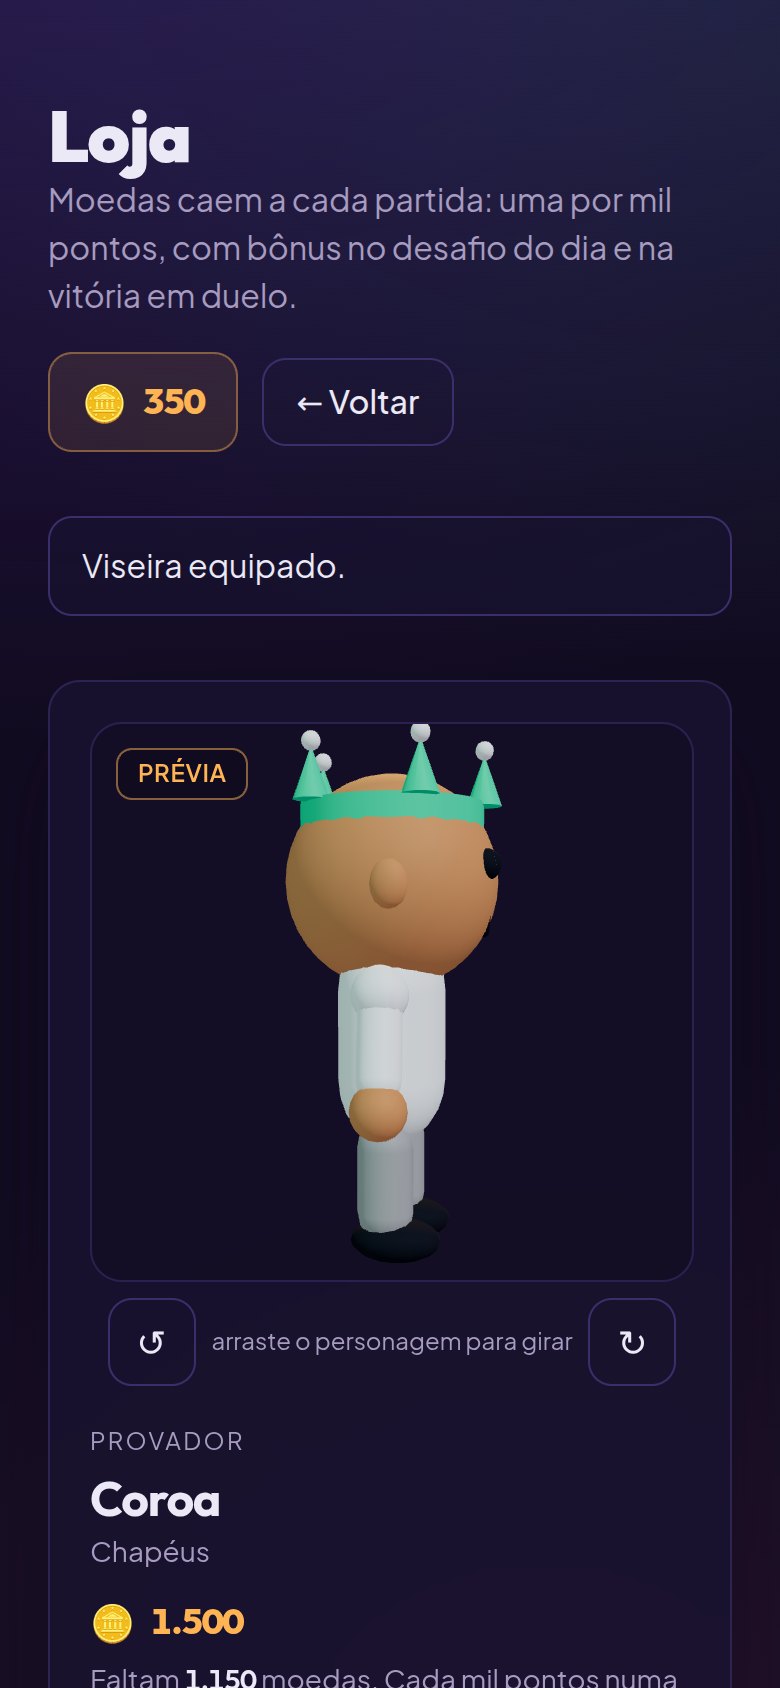
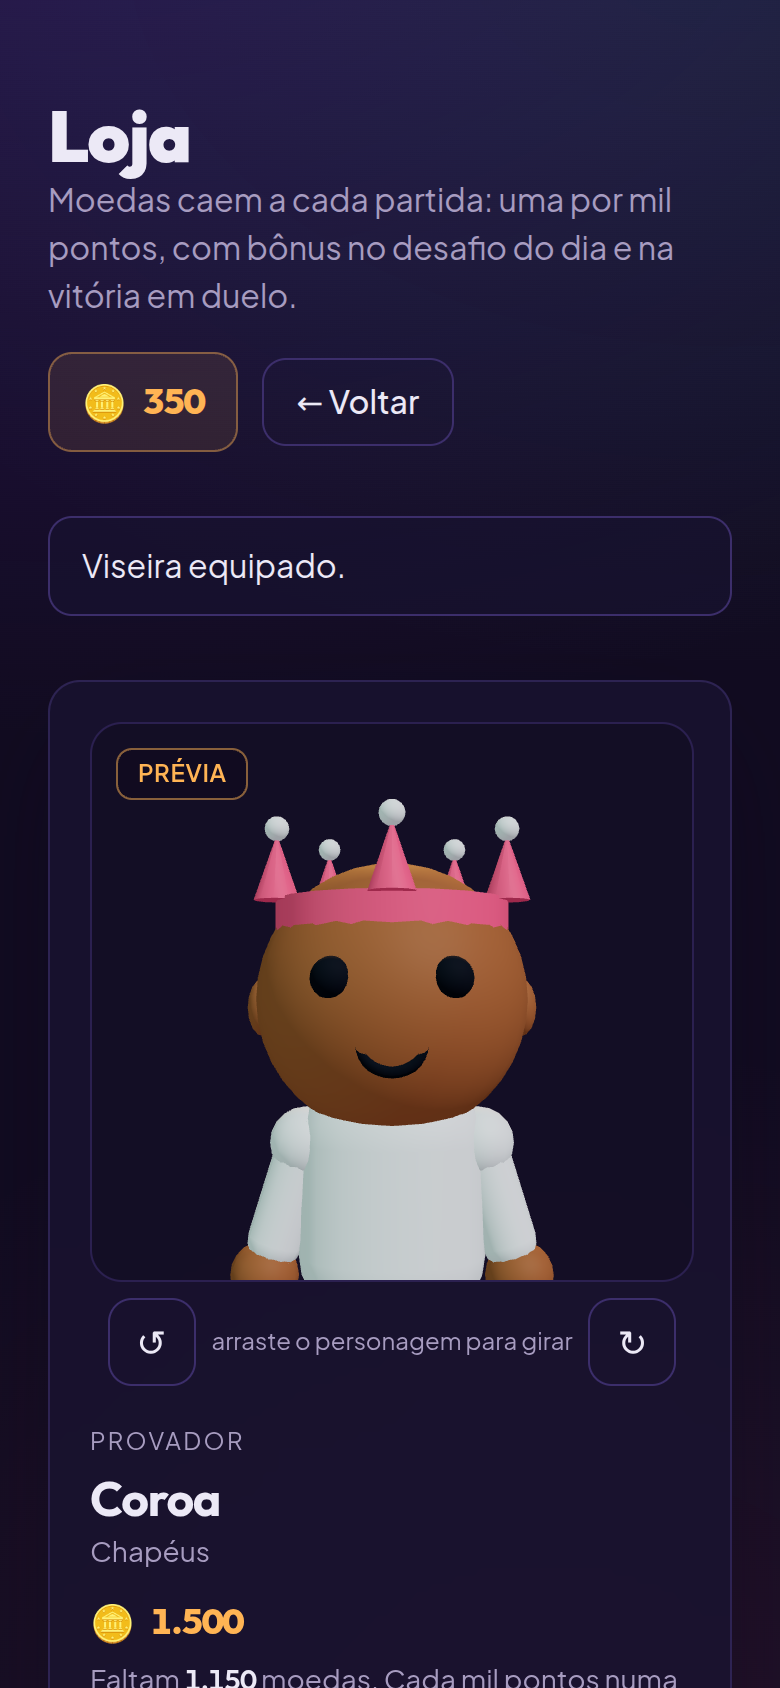
Enquadra o provador pelo item que esta sendo provado
Fecha #11.

A camera do provador ficava distante e um pouco de cima: o rosto lia pequeno
numa vitrine onde sete dos itens vendidos sao rostos, e chapeu alto encostava
no topo do painel — item cortado e o pior defeito possivel num provador.

Agora a camera fica na altura da mira, olhando na horizontal, e o
enquadramento segue o eixo em foco: chapeu ou rosto aproxima na cabeca, roupa
ou detalhe abre para o corpo inteiro. A troca e instantanea, sem viagem de
camera, que seria movimento indesejado sob prefers-reduced-motion.

A folga foi medida pelo catalogo, e o chapeu mais alto nao e a coroa: e o
gorro, por causa do pompom. Sobra folga acima dele, com os pes dentro do
quadro.

O mesh do personagem continua sendo o da #9, sem duplicata: o que entrou aqui
foi so cena, camera e enquadramento.

Claude-Session: https://claude.ai/code/session_01Nko3ctY1rBK7riJFu5nmqe

Changed region(s): [[0.2769, 0.4313, 0.7077, 0.7701]]

diff --git a/src/components/PersonagemCena.tsx b/src/components/PersonagemCena.tsx
@@ -1,0 +1,150 @@
+"use client";
+
+import { useEffect } from "react";
+import { Canvas, useThree } from "@react-three/fiber";
+import type { Material, Mesh, PerspectiveCamera } from "three";
+import type { Avatar } from "@/lib/types";
+import Personagem from "@/components/three/Personagem";
+import { useAbaVisivel, usePrefereMenosMovimento } from "@/components/three/preferencias";
+import { distanciaCamera, ENQUADRAMENTO, FOV, type Enquadramento } from "./enquadramento";
+
+export type PersonagemCenaProps = {
+  avatar: Avatar;
+  className?: string;
+  rotationY?: number;
+  animar?: boolean;
+  enquadramento?: Enquadramento;
+};
+
+/**
+ * Cena do provador.
+ *
+ * O personagem é o mesmo de `src/components/three` — nada de mesh novo. Este
+ * módulo inteiro só é carregado sob demanda (quem o importa é o
+ * `PersonagemPalco`, por `next/dynamic`), que é o caminho que a fachada abre
+ * para quem monta a própria cena. O que muda aqui é só a câmera: o `PersonagemCanvas` de lá tem
+ * um enquadramento fixo, pensado para o retrato da tela inicial, e o provador
+ * precisa de dois — um de corpo inteiro que caiba o chapéu mais alto com folga
+ * e um de rosto, perto e na altura dos olhos, para julgar chapéu e rosto.
+ *
+ * Os cuidados de bateria seguem os mesmos: `dpr` limitado a 2, sem sombras, e o
+ * loop só roda com animação de verdade.
+ */
+export default function PersonagemCena({
+  avatar,
+  className,
+  rotationY = 0,
+  animar = true,
+  enquadramento = "corpo",
+}: PersonagemCenaProps) {
+  const reduzMovimento = usePrefereMenosMovimento();
+  const abaVisivel = useAbaVisivel();
+  const animando = animar && !reduzMovimento && abaVisivel;
+
+  const { alvo, meiaAltura } = ENQUADRAMENTO[enquadramento];
+  const distancia = distanciaCamera(meiaAltura);
+
+  return (
+    <div
+      className={className}
+      role="img"
+      aria-label="Personagem do jogador em 3D"
+      style={{ width: "100%", height: "100%", position: "relative" }}
+    >
+      <Canvas
+        dpr={[1, 2]}
+        shadows={false}
+        frameloop={animando ? "always" : "demand"}
+        camera={{ position: [0, 0, distancia], fov: FOV, near: 0.1, far: 30 }}
+        gl={{ antialias: true, alpha: true, powerPreference: "low-power" }}
+        style={{ width: "100%", height: "100%" }}
+      >
+        <Luzes />
+        {/* A câmera olha para a origem: descer o personagem é mirar nele. */}
+        <group position={[0, -alvo, 0]}>
+          <Personagem avatar={avatar} animar={animando} rotationY={rotationY} />
+        </group>
+        <Camera distancia={distancia} />
+        <Redesenha
+          chaves={[
+            avatar.skin,
+            avatar.outfit,
+            avatar.accent,
+            avatar.hat,
+            avatar.face,
+            animando,
+            rotationY,
+            enquadramento,
+          ]}
+        />
+        <Descarte />
+      </Canvas>
+    </div>
+  );
+}
+
+/** Mesma luz chapada da cena da fachada: chave branca, preenchimento e contorno. */
+function Luzes() {
+  return (
+    <>
+      <ambientLight intensity={1.15} />
+      <directionalLight position={[2.4, 3.4, 3.2]} intensity={1.5} color="#ffffff" />
+      <directionalLight position={[-3, 1.2, 1.8]} intensity={0.5} color="#3ce7ad" />
+      <directionalLight position={[0, 2.2, -3.4]} intensity={0.75} color="#ffb454" />
+    </>
+  );
+}
+
+/**
+ * Aplica a distância quando o enquadramento troca — o `camera` do `Canvas` só
+ * vale na montagem. Sem transição: quem pediu menos movimento não quer viagem
+ * de câmera, e trocar de item tem de ser imediato.
+ */
+function Camera({ distancia }: { distancia: number }) {
+  const camera = useThree((estado) => estado.camera) as PerspectiveCamera;
+
+  useEffect(() => {
+    camera.position.set(0, 0, distancia);
+    camera.lookAt(0, 0, 0);
+    camera.updateProjectionMatrix();
+  }, [camera, distancia]);
+
+  return null;
+}
+
+/** Em `frameloop="demand"`, pede um quadro novo quando algo muda. */
+function Redesenha({ chaves }: { chaves: unknown[] }) {
+  const invalidate = useThree((estado) => estado.invalidate);
+  useEffect(() => {
+    invalidate();
+  }, [invalidate, ...chaves]); // eslint-disable-line react-hooks/exhaustive-deps
+  return null;
+}
+
+/** Descarte explícito na saída, para não acumular contexto WebGL entre telas. */
+function Descarte() {
+  const gl = useThree((estado) => estado.gl);
+  const scene = useThree((estado) => estado.scene);
+
+  useEffect(
+    () => () => {
+      scene.traverse((objeto) => {
+        const mesh = objeto as Mesh;
+        mesh.geometry?.dispose?.();
+        const material = mesh.material as Material | Material[] | undefined;
+        if (Array.isArray(material)) material.forEach((m) => m.dispose());
+        else material?.dispose?.();
+      });
+
+      const canvas = gl.domElement;
+      gl.dispose();
+      // Em StrictMode o canvas volta a ser usado; só mata o contexto se saiu.
+      setTimeout(() => {
+        if (!canvas.isConnected) gl.forceContextLoss?.();
+      }, 0);
+    },
+    [gl, scene],
+  );
+
+  return null;
+}

diff --git a/src/components/AvatarEditor.tsx b/src/components/AvatarEditor.tsx
@@ -3,6 +3,7 @@
 import Link from "next/link";
 import { useState } from "react";
 import PersonagemGiravel from "./PersonagemGiravel";
+import type { Enquadramento } from "./enquadramento";
 import { GRATIS, moedas, vestir } from "./cosmeticos";
 import { SKIN_TONES } from "@/lib/profile";
 import { itemsOfKind, type ShopItem } from "@/lib/shop";
@@ -36,6 +37,14 @@ type Escolha = {
 export default function AvatarEditor({ avatar, owned, onChange }: Props) {
   /** Item bloqueado em prova. Vive aqui e morre aqui — nunca vai para o perfil. */
   const [prova, setProva] = useState<ShopItem | null>(null);
+  /**
+   * O eixo mexido por último manda no enquadramento: chapéu e rosto — onde mora
+   * a maior parte da loja — pedem a câmera perto; cor de roupa e de detalhe
+   * pedem o corpo inteiro.
+   */
+  const [eixo, setEixo] = useState<ShopItem["kind"] | "skin">("hat");
+  const enquadramento: Enquadramento =
+    (prova?.kind ?? eixo) === "hat" || (prova?.kind ?? eixo) === "face" ? "rosto" : "corpo";
 
   const tenho = (item: ShopItem) => owned.includes(item.id);
   const mostrado = prova ? vestir(avatar, prova) : avatar;
@@ -54,6 +63,7 @@ export default function AvatarEditor({ avatar, owned, onChange }: Props) {
 
   /** Escolher: o que é meu veste de verdade; o que é bloqueado só entra na prévia. */
   function escolher(kind: ShopItem["kind"], escolha: Escolha) {
+    setEixo(kind);
     if (escolha.item && !escolha.tenho) {
       setProva(escolha.item);
       return;
@@ -81,7 +91,12 @@ export default function AvatarEditor({ avatar, owned, onChange }: Props) {
   return (
     <div className="grid gap-6 lg:grid-cols-[minmax(0,19rem)_1fr]">
       <div className="flex flex-col gap-3 lg:sticky lg:top-6 lg:self-start">
-        <PersonagemGiravel avatar={mostrado} altura={300} tamanhoReserva={200}>
+        <PersonagemGiravel
+          avatar={mostrado}
+          altura={300}
+          tamanhoReserva={200}
+          enquadramento={enquadramento}
+        >
           {prova && (
             <span className="pointer-events-none absolute top-3 left-3 rounded-lg border border-flare-400/50 bg-ink-950/85 px-2.5 py-1 text-xs font-semibold tracking-wide text-flare-400 uppercase">
               prévia
@@ -147,6 +162,7 @@ export default function AvatarEditor({ avatar, owned, onChange }: Props) {
           estaSelecionado={(cor) => !prova && avatar.skin === cor}
           onPick={(cor) => {
             setProva(null);
+            setEixo("skin");
             onChange({ skin: cor });
           }}
         />

diff --git a/src/components/PersonagemPalco.tsx b/src/components/PersonagemPalco.tsx
@@ -1,0 +1,84 @@
+"use client";
+
+import { Component, useEffect, useState, type ReactNode } from "react";
+import dynamic from "next/dynamic";
+import Avatar from "@/components/Avatar";
+import { temWebGL } from "@/components/three";
+import type { Avatar as AvatarType } from "@/lib/types";
+import type { Enquadramento } from "./enquadramento";
+
+/**
+ * Entrada do personagem do provador, com as mesmas garantias do `Personagem3D`
+ * da fachada: o Three.js entra por `next/dynamic` com `ssr: false`, e sem
+ * WebGL — ou se a cena estourar — cai no bonequinho SVG. Customizar e comprar
+ * nunca dependem de GPU.
+ *
+ * O que ele acrescenta é o `enquadramento`, que o `Personagem3D` não expõe.
+ */
+const Cena = dynamic(() => import("./PersonagemCena"), { ssr: false });
+
+export type PersonagemPalcoProps = {
+  avatar: AvatarType;
+  className?: string;
+  tamanhoReserva?: number;
+  rotationY?: number;
+  animar?: boolean;
+  enquadramento?: Enquadramento;
+};
+
+export default function PersonagemPalco({
+  avatar,
+  className,
+  tamanhoReserva = 160,
+  rotationY,
+  animar,
+  enquadramento,
+}: PersonagemPalcoProps) {
+  // `null` = ainda não sabemos (servidor e primeiro quadro no cliente).
+  const [suporta, setSuporta] = useState<boolean | null>(null);
+
+  useEffect(() => {
+    setSuporta(temWebGL());
+  }, []);
+
+  const reserva = (
+    <div
+      className={className}
+      style={{ display: "grid", placeItems: "center", width: "100%", height: "100%" }}
+      data-personagem="svg"
+    >
+      <Avatar avatar={avatar} size={tamanhoReserva} />
+    </div>
+  );
+
+  if (suporta !== true) return reserva;
+
+  return (
+    <LimiteDeErro reserva={reserva}>
+      <Cena
+        avatar={avatar}
+        className={className}
+        rotationY={rotationY}
+        animar={animar}
+        enquadramento={enquadramento}
+      />
+    </LimiteDeErro>
+  );
+}
+
+/** Se a cena quebrar em tempo de execução, mostra o SVG e segue o jogo. */
+class LimiteDeErro extends Component<{ reserva: ReactNode; children: ReactNode }, { caiu: boolean }> {
+  state = { caiu: false };
+
+  static getDerivedStateFromError() {
+    return { caiu: true };
+  }
+
+  componentDidCatch(erro: unknown) {
+    console.warn("[provador] caiu para o SVG:", erro);
+  }
+
+  render() {
+    return this.state.caiu ? this.props.reserva : this.props.children;
+  }
+}

diff --git a/src/app/loja/page.tsx b/src/app/loja/page.tsx
@@ -4,6 +4,7 @@ import Link from "next/link";
 import { useEffect, useMemo, useState } from "react";
 import Avatar from "@/components/Avatar";
 import PersonagemGiravel from "@/components/PersonagemGiravel";
+import type { Enquadramento } from "@/components/enquadramento";
 import { NOME_DA_SECAO, faltam, moedas, vestir } from "@/components/cosmeticos";
 import { loadProfile, saveProfileLocal } from "@/lib/profile";
 import { itemById, itemsOfKind, SHOP_ITEMS, type ShopItem } from "@/lib/shop";
@@ -109,6 +110,9 @@ export default function ShopPage() {
   }
 
   const noProvador = provando ? preview(provando) : profile.avatar;
+  /** Chapéu e rosto pedem a câmera perto; roupa e detalhe pedem o corpo inteiro. */
+  const enquadramento: Enquadramento =
+    provando?.kind === "hat" || provando?.kind === "face" ? "rosto" : "corpo";
   const tenhoProvado = provando ? wallet.items.includes(provando.id) : false;
   const faltaProvado = provando ? faltam(provando.price, wallet.coins) : 0;
 
@@ -142,7 +146,12 @@ export default function ShopPage() {
 
       {/* Provador: a compra como decisão visual — o item no seu personagem, antes de gastar. */}
       <section className="panel grid gap-5 rounded-2xl p-5 sm:grid-cols-[minmax(0,18rem)_1fr] sm:items-center">
-        <PersonagemGiravel avatar={noProvador} altura={280} tamanhoReserva={190}>
+        <PersonagemGiravel
+          avatar={noProvador}
+          altura={280}
+          tamanhoReserva={190}
+          enquadramento={enquadramento}
+        >
           {provando && !tenhoProvado && (
             <span className="pointer-events-none absolute top-3 left-3 rounded-lg border border-flare-400/50 bg-ink-950/85 px-2.5 py-1 text-xs font-semibold tracking-wide text-flare-400 uppercase">
               prévia

diff --git a/src/components/enquadramento.ts b/src/components/enquadramento.ts
@@ -1,0 +1,38 @@
+/**
+ * Enquadramento do provador — só números, sem Three.js, para poder ser lido
+ * pela tela sem arrastar o pacote 3D.
+ *
+ * O personagem tem os pés no y = 0 e o topo da cabeça em ~2,30 (`ALTURA`). O
+ * chapéu mais alto do catálogo é o gorro: o pompom chega a ~2,57; a coroa vai
+ * a ~2,46. O enquadramento de corpo inteiro tem de caber isso **com folga**,
+ * senão o provador corta justamente o item que está sendo provado.
+ */
+
+export type Enquadramento = "corpo" | "rosto";
+
+/** Topo do chapéu mais alto (gorro), já com a folga de segurança. */
+export const TOPO_COM_CHAPEU = 2.57;
+
+/** Abertura vertical da câmera, em graus. */
+export const FOV = 32;
+
+/**
+ * Cada enquadramento é uma altura de mira e uma meia-altura visível. A câmera
+ * fica **na altura da mira**, olhando na horizontal: nada de plano de cima.
+ *
+ * - `corpo`: mira na cintura alta, mostra do chão até 2,80 — 0,23 de folga
+ *   acima do gorro, que é o mais alto de todos.
+ * - `rosto`: mira na cabeça e chega perto, para os sete rostos e os nove
+ *   chapéus — onde mora a maior parte da loja — lerem de verdade. Mostra de
+ *   0,73 a 2,83, ou seja, ainda pega o tronco: roupa e detalhe continuam à
+ *   vista, e sobra folga acima do gorro.
+ */
+export const ENQUADRAMENTO: Record<Enquadramento, { alvo: number; meiaAltura: number }> = {
+  corpo: { alvo: 1.3, meiaAltura: 1.5 },
+  rosto: { alvo: 1.78, meiaAltura: 1.05 },
+};
+
+/** Distância da câmera que faz a meia-altura pedida caber no `FOV`. */
+export function distanciaCamera(meiaAltura: number): number {
+  return meiaAltura / Math.tan(((FOV / 2) * Math.PI) / 180);
+}

diff --git a/src/components/PersonagemGiravel.tsx b/src/components/PersonagemGiravel.tsx
@@ -1,7 +1,8 @@
 "use client";
 
 import { useCallback, useEffect, useRef, useState } from "react";
-import { Personagem3D } from "@/components/three";
+import PersonagemPalco from "./PersonagemPalco";
+import type { Enquadramento } from "./enquadramento";
 import { useAbaVisivel, usePrefereMenosMovimento } from "@/components/three/preferencias";
 import type { Avatar as AvatarType } from "@/lib/types";
 
@@ -16,6 +17,8 @@ type Props = {
   children?: React.ReactNode;
   /** Desliga o giro lento de vitrine. */
   girarSozinho?: boolean;
+  /** "rosto" chega perto quando o que está em prova é chapéu ou rosto. */
+  enquadramento?: Enquadramento;
 };
 
 /** Quanto o personagem gira por pixel arrastado. */
@@ -47,6 +50,7 @@ export default function PersonagemGiravel({
   className = "",
   children,
   girarSozinho = true,
+  enquadramento = "corpo",
 }: Props) {
   const [giro, setGiro] = useState(0);
   const [tocado, setTocado] = useState(false);
@@ -113,9 +117,10 @@ export default function PersonagemGiravel({
         style={{ height: altura, touchAction: "pan-y" }}
         className="relative w-full cursor-grab overflow-hidden rounded-2xl border border-ink-700 bg-ink-950/60 select-none active:cursor-grabbing focus-visible:border-beam-500 focus-visible:outline-none"
       >
-        <Personagem3D
+        <PersonagemPalco
           avatar={avatar}
           rotationY={giro}
+          enquadramento={enquadramento}
           tamanhoReserva={tamanhoReserva ?? Math.min(220, Math.round(altura * 0.8))}
           className="size-full"
         />
